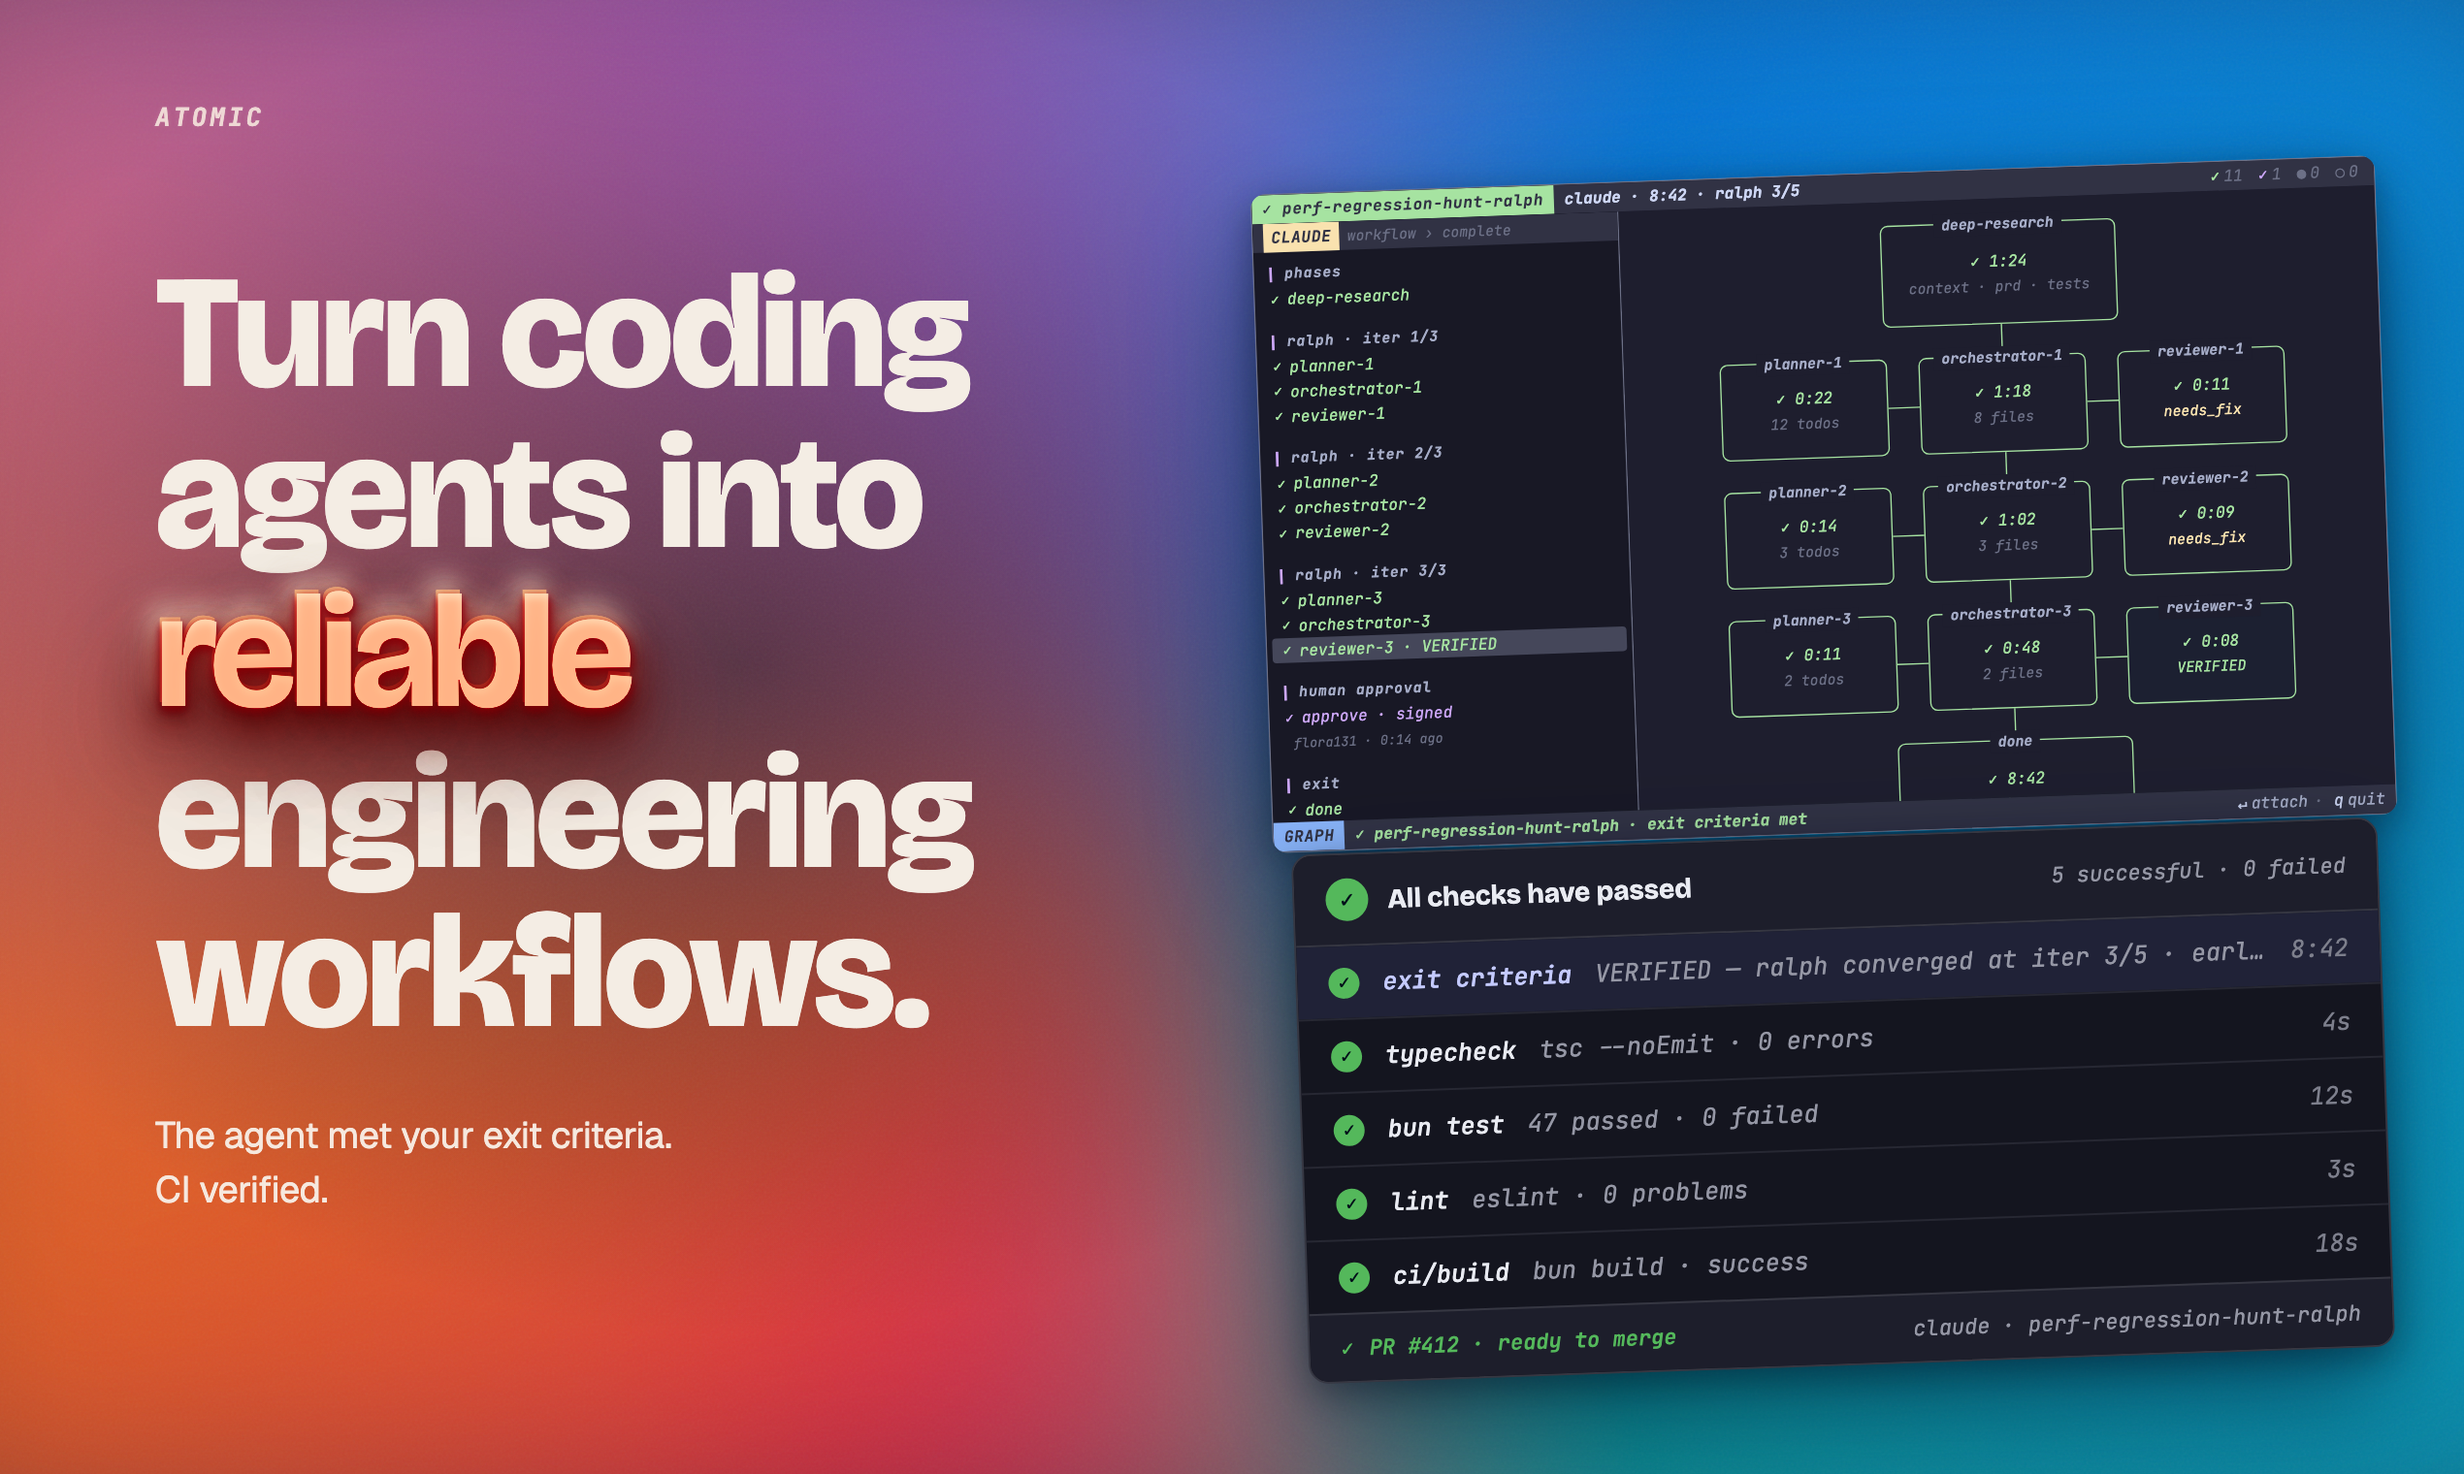
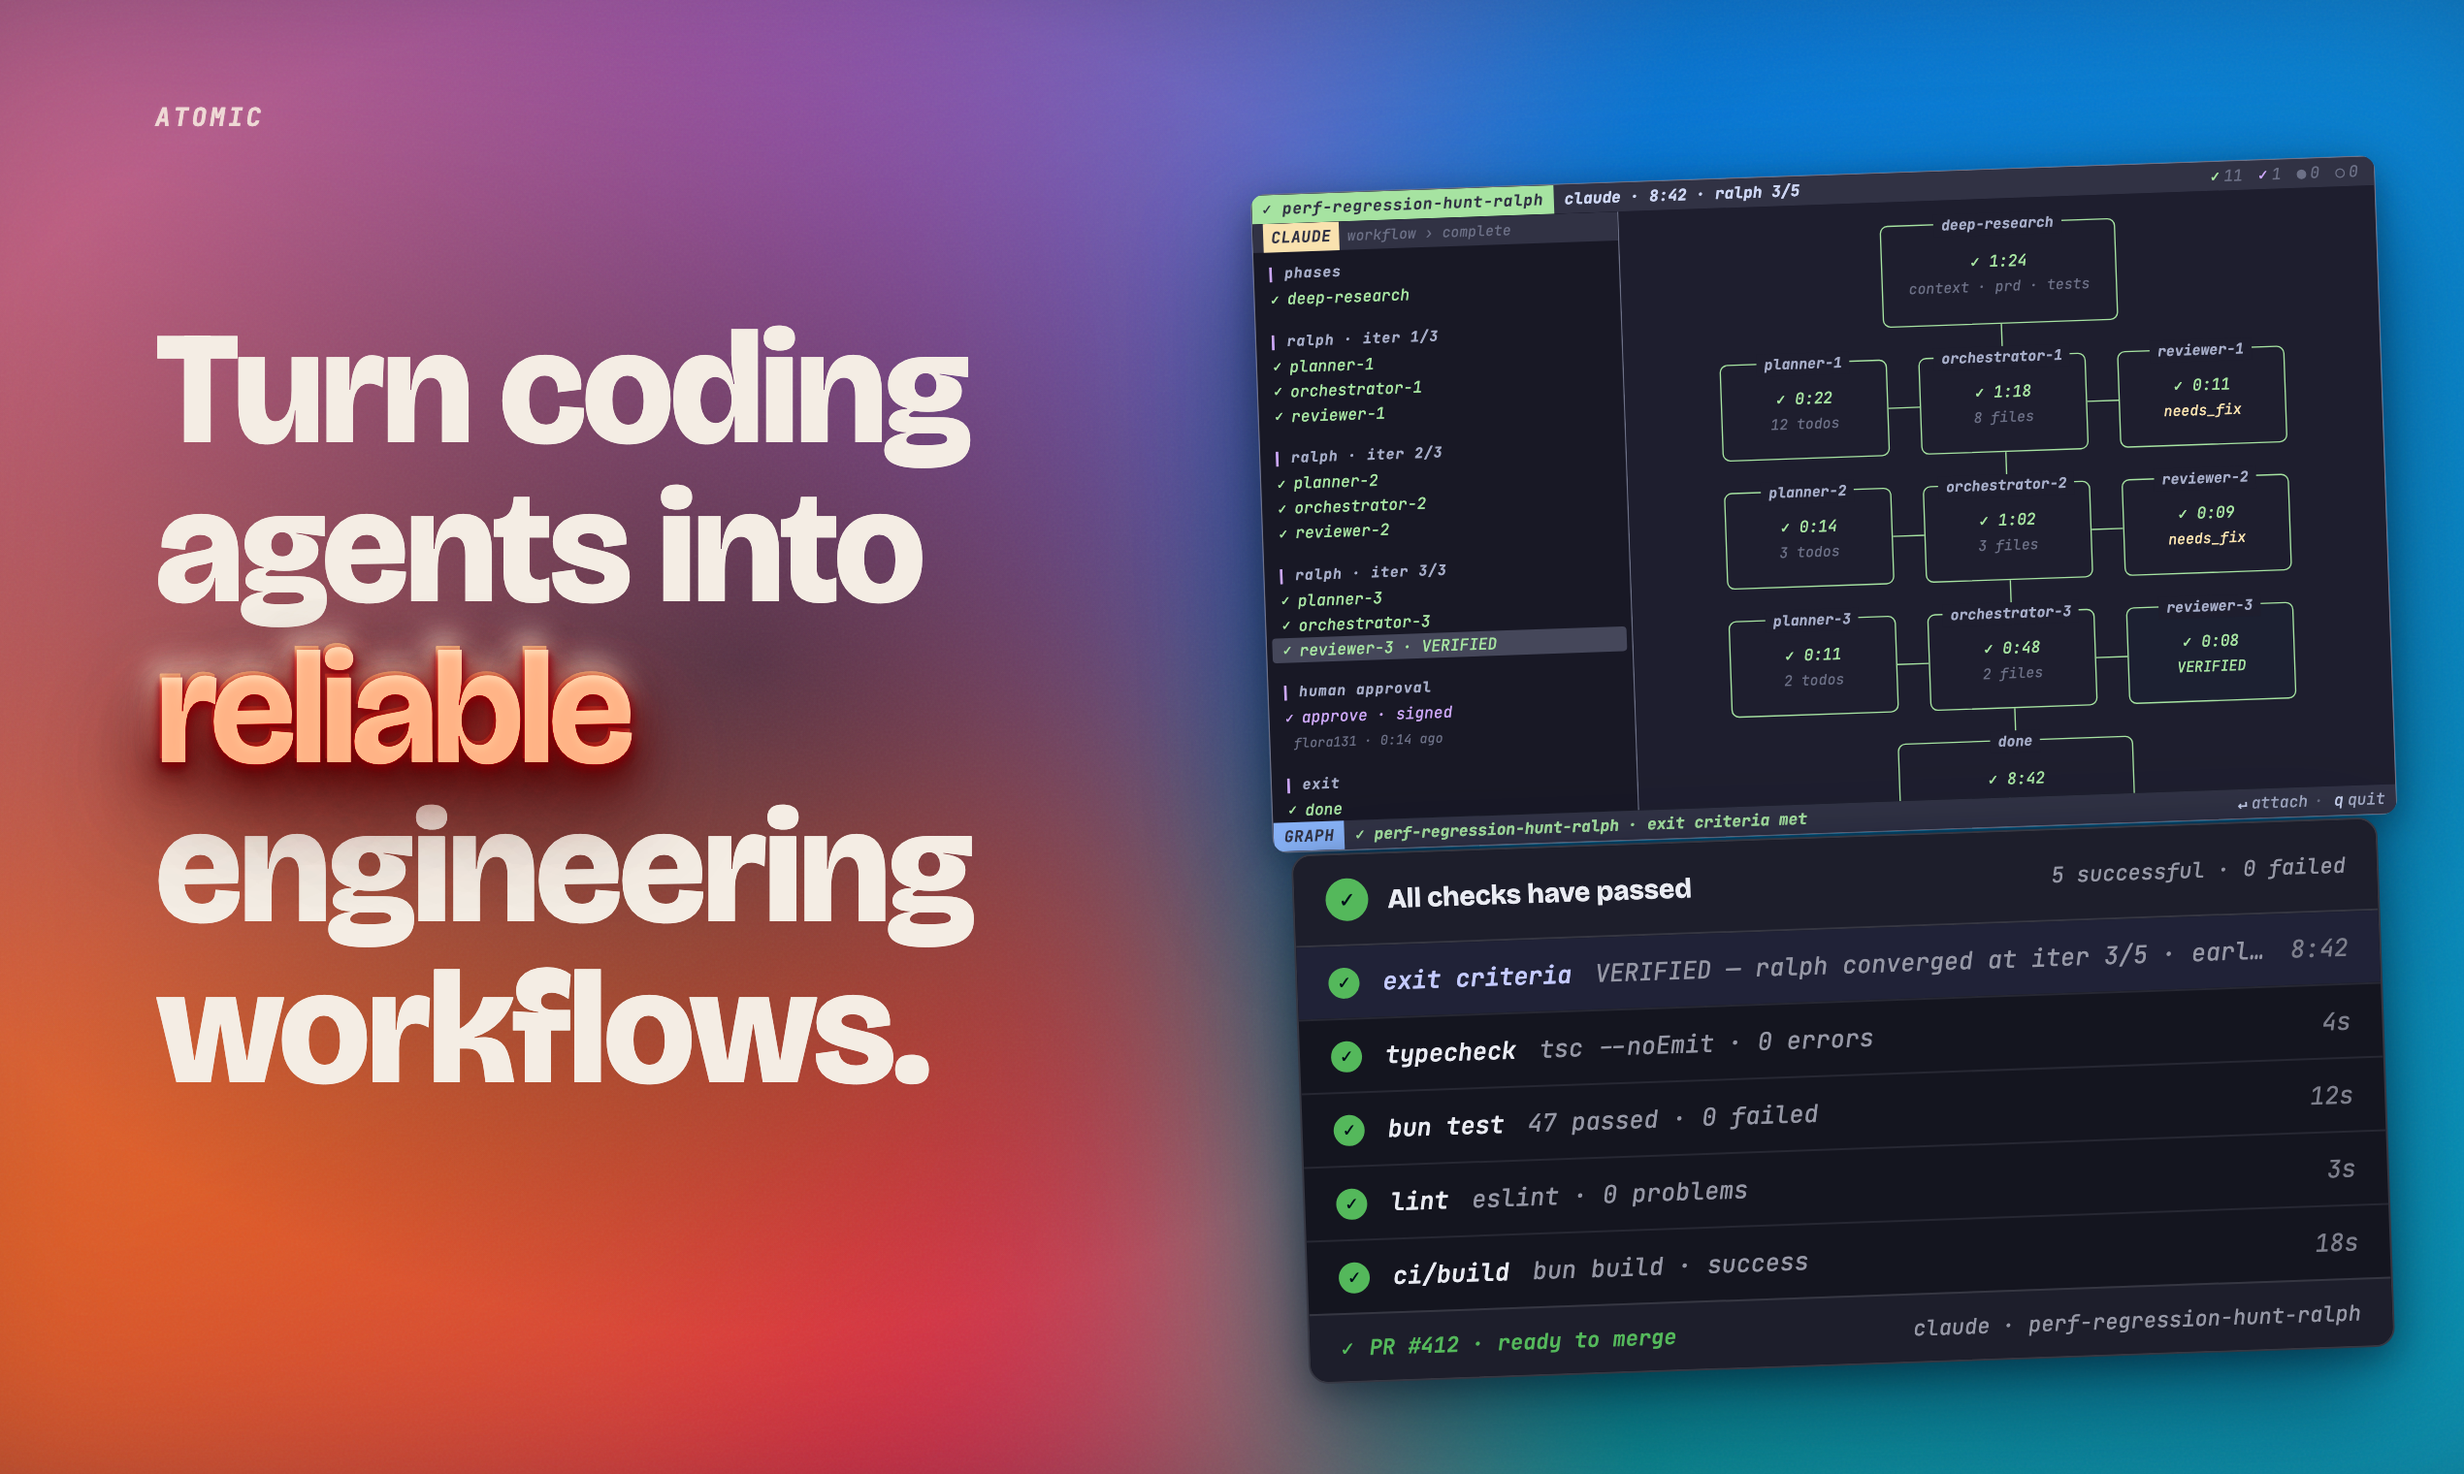
feat(product-hunt): lean copy edits — zero body copy on slides 01–03, 05, 06
Remove all subheads and standalone captions from slides 01, 02, 03, 05,
and 06, leaving headline-only layouts (≤8 words). The TUI screenshots and
diagram artifacts carry the explanation; no filler copy added in place.

Slide 01: drop 2-line body paragraph below headline.
Slide 02: drop subhead and bottom-right italic caption; tighten h1
          margin-bottom to 0 since subhead no longer follows.
Slide 03: drop subhead from top band; drop "Same skills" caption from
          After panel; layout rebalances via fixed top-band height.
Slide 05: drop 50-word subhead; sketch card expands via flex: 1 to fill
          freed space; h1 margin-bottom tightened to 16px.
Slide 06: drop subhead and bottom italic caption; two-panel diagram gains
          extra vertical room from both removals.

Regenerated PNGs confirm bubble words (reliable, code, After, enhances,
lower) still render and layouts feel intentional.

Changed region(s): [[0.0622, 0.1855, 0.4043, 0.8349]]

diff --git a/assets/product-hunt/slides/03-before-after.html b/assets/product-hunt/slides/03-before-after.html
@@ -298,9 +298,6 @@
       <p class="headline" style="font-size: 46px; font-weight: 700; margin-bottom: 6px;">
         The pain is operational control.
       </p>
-      <p class="subhead" style="font-size: 19px; color: var(--text-on-gradient); max-width: 900px;">
-        Agents write code. Atomic makes longer agent runs reviewable, repeatable, and safer.
-      </p>
     </div>
 
     <!-- Content layer: diptych panels -->
@@ -465,23 +462,6 @@
               <div class="code-line">  <span class="code-punct">})</span></div>
               <div class="code-line">  <span class="code-punct">.</span><span class="code-prop">compile</span><span class="code-punct">()</span></div>
             </div>
-          </div>
-
-          <!-- Caption: same skills, now sequenced -->
-          <div style="
-            display: flex;
-            align-items: center;
-            gap: 8px;
-            padding: 2px 4px 0 4px;
-            font-family: var(--font-body);
-            font-size: 13px;
-            line-height: 1.4;
-            color: var(--text-on-gradient);
-            letter-spacing: 0.005em;
-            font-weight: 500;
-          ">
-            <span style="font-family: var(--font-mono); font-size: 12px; color: var(--mocha-mauve);">↳</span>
-            <span>Same skills you already use — now in sequence.</span>
           </div>
 
           <!-- Connector: workflow → result -->

diff --git a/assets/product-hunt/slides/02-workflow-as-code.html b/assets/product-hunt/slides/02-workflow-as-code.html
@@ -217,16 +217,13 @@
           line-height: 1.0;
           letter-spacing: -0.025em;
           color: var(--mocha-text);
-          margin-bottom: 14px;
+          margin-bottom: 0;
         ">Workflow-as-<span
           class="bubble-text bubble-text--warm"
           data-text="code"
           style="font-size: inherit; line-height: inherit;"
         >code</span></h1>
 
-        <p class="subhead" style="font-size: 20px; color: var(--text-on-gradient); max-width: 580px;">
-          Developer-native orchestration that lives in the repo.
-        </p>
       </div>
 
       <!-- Body: editorial split -->
@@ -449,23 +446,6 @@
 
     </div>
 
-    <!-- Bottom-right caption: absolutely positioned on slide -->
-    <div style="
-      position: absolute;
-      bottom: 32px;
-      right: 56px;
-      max-width: 480px;
-      font-family: var(--font-body);
-      font-style: italic;
-      font-size: 15px;
-      color: var(--text-on-gradient);
-      line-height: 1.55;
-      text-align: right;
-      z-index: 3;
-    ">No black-box canvas.
-      <span class="cap-r">R</span>eview it in Git.
-      <span class="cap-r">R</span>un it with Bun.
-      <span class="cap-r">R</span>euse it across the team.</div>
 
   </div>
 </body>

diff --git a/assets/product-hunt/slides/05-architecture.html b/assets/product-hunt/slides/05-architecture.html
@@ -162,7 +162,7 @@
         line-height: 1.04;
         letter-spacing: -0.025em;
         color: var(--mocha-text);
-        margin-bottom: 20px;
+        margin-bottom: 16px;
       ">Atomic
         <span
           class="bubble-text bubble-text--warm"
@@ -170,15 +170,6 @@
         >enhances</span>
         your existing agent.</h1>
 
-      <!-- Subhead -->
-      <p style="
-        font-family: var(--font-body);
-        font-size: 17px;
-        color: var(--text-on-gradient);
-        line-height: 1.5;
-        margin-bottom: 18px;
-        max-width: 1120px;
-      ">Atomic gives you fresh context per stage, narrowly-scoped agent invocations, orchestrator-owned control flow, human-in-the-loop steering on long runs, DAG-driven parallelism, and deterministic tool nodes — so the agent only does the part that needs an agent.</p>
 
       <!-- ================================================================
            Excalidraw-style flow on a dark sketch canvas

diff --git a/assets/product-hunt/slides/06-safety-devcontainer.html b/assets/product-hunt/slides/06-safety-devcontainer.html
@@ -276,10 +276,6 @@
         blast radius.
       </h1>
 
-      <!-- Subhead -->
-      <p class="subhead" style="font-size: 19px; max-width: 680px; margin-bottom: 28px; position: relative; z-index: 2; color: var(--text-on-gradient);">
-        Atomic supports isolated devcontainers so agent execution does not have to depend directly on your host.
-      </p>
 
       <!-- TWO-PANEL DIAGRAM -->
       <div style="
@@ -540,20 +536,6 @@
       </div>
       <!-- END TWO-PANEL DIAGRAM -->
 
-      <!-- Bottom caption -->
-      <p style="
-        font-family: var(--font-body);
-        font-size: 16px;
-        font-style: italic;
-        font-weight: 500;
-        color: var(--text-on-gradient);
-        margin-top: 14px;
-        position: relative;
-        z-index: 2;
-        max-width: 860px;
-      ">
-        The concern is real: agents doing more need better boundaries. Atomic gives the workflow a safer place to run.
-      </p>
 
     </div>
   </div>

diff --git a/assets/product-hunt/slides/01-hero.html b/assets/product-hunt/slides/01-hero.html
@@ -214,19 +214,6 @@
         engineering<br>
         workflows.
       </h1>
-      <p style="
-        font-family: var(--font-body);
-        font-size: 19px;
-        font-weight: 400;
-        line-height: 1.5;
-        letter-spacing: -0.01em;
-        color: var(--text-on-gradient);
-        max-width: 50ch;
-        margin: 0;
-      ">
-        The agent met your exit criteria.<br>
-        CI verified.
-      </p>
     </div>
 
     <!-- TUI artifact: perf-regression-hunt → ralph (impl → review → debug × N) → done -->
